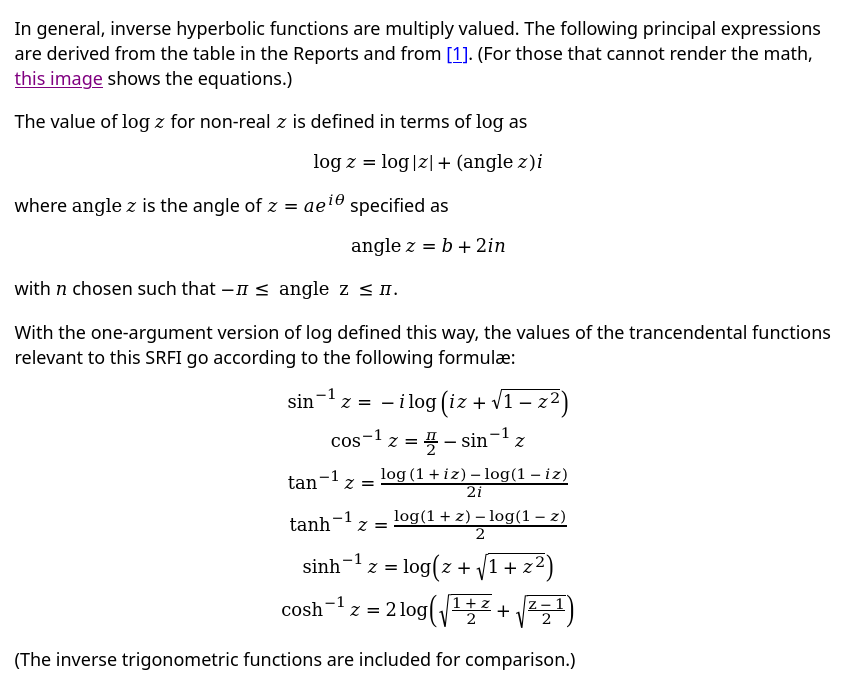
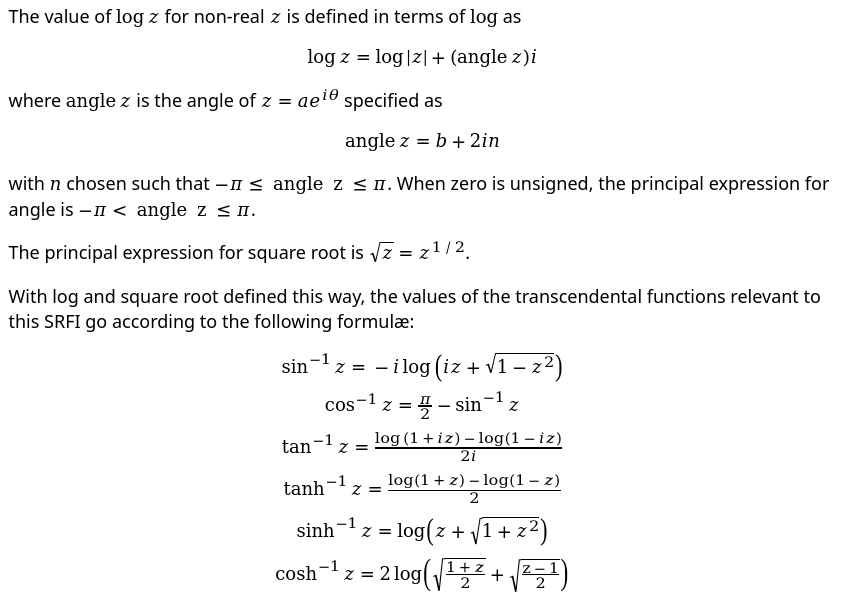
add rationalize, fix tests, update abstract

Changed region(s): [[0.0, 0.0, 0.9742, 0.4515], [0.0, 0.4816, 0.9742, 0.9933]]

diff --git a/srfi-278.html b/srfi-278.html
@@ -128,11 +128,13 @@ SPDX-License-Identifier: MIT
 <h2 id="abstract">Abstract</h2>
 
 <p>
-  This SRFI defines miscellaneous procedures on numbers that were either
-  missing from the <span class="report-name">R<sup>7</sup>RS</span> or are
-  common extensions. These extensions include complex (inverse) hyperbolic
-  functions and the <span class="report-name">R<sup>6</sup>RS</span>
-  numeric tower predicates.
+  This SRFI defines procedures on Scheme numbers that aim to improve the
+  portability and usefulness of Scheme arithmetic. These procedures include
+  predicates with extended domains, hyperbolic and inverse hyperbolic
+  functions, the <span class="report-name">R<sup>6</sup>RS</span> numeric
+  tower, and additional procedures for rounding. Also included are
+  recommendations and justifications for mixed inexact/exact arithmetic
+  to make complex number arithmetic more predictable.
 </p>
 
 <h2 id="issues">Issues</h2>
@@ -145,9 +147,9 @@ SPDX-License-Identifier: MIT
   <li>I am unsure whether the requirements on the inverse hyperbolic functions
       are sufficient to capture the behavior shown in the examples.
   </li>
-  <li>Incoroporate Gambit’s test suite. </li>
-  <li>The sample implementation should incorporate improvements to Kahan’s
-      algorithm like that seen in the Gambit implementation.
+  <li>Incoroporate Gambit’s test suite.</li>
+  <li>More tests for the <a href="#rationalize"><code>rationalize</code></a>
+      procedure.
   </li>
   <li>The sample implementation should respect the counter-clockwise rule
       when dealing with mixed-exactness complex numbers.
@@ -173,7 +175,11 @@ SPDX-License-Identifier: MIT
   The extended-domain procedures are more useful because they can be
   used without invoking “it is an error” behavior. For example, in this
   SRFI, <code>(exact-integer? '())</code> and <code>(nan? '())</code>
-  both return <code>#f</code>.</p>
+  both return <code>#f</code>. In addition, the <code>rationalize</code>
+  procedure has been extended to different types of intervals to make it
+  more useful in simplifying rational numbers while also preserving
+  properties such as rounding.
+</p>
 
 <p>
   The common extensions are the <a
@@ -292,6 +298,7 @@ SPDX-License-Identifier: MIT
   <a href="#rationalp"><code>rational?</code></a>
   <a href="#integerp"><code>integer?</code></a>
   <a href="#exact-integerp"><code>exact-integer?</code></a>
+  <a href="#rationalize"><code>rationalize</code></a>
   <a href="#nanp"><code>nan?</code></a>
   <a href="#sinh"><code>sinh</code></a>
   <a href="#cosh"><code>cosh</code></a>
@@ -377,11 +384,11 @@ SPDX-License-Identifier: MIT
 </p>
 
 <pre
-><code class="example-code">(strictly-real? 1.0)</code> ⇒ #t
-<code class="example-code">(strictly-real? 1)</code> ⇒ #t
-<code class="example-code">(strictly-real? 1+0i)</code> ⇒ #t
-<code class="example-code">(strictly-real? 1.0+0.0i)</code> ⇒ #f
-<code class="example-code">(strictly-real? 1.0-0.0i)</code> ⇒ #f</pre>
+><code class="example-code">(real? 1.0)</code> ⇒ #t
+<code class="example-code">(real? 1)</code> ⇒ #t
+<code class="example-code">(real? 1+0i)</code> ⇒ #t
+<code class="example-code">(real? 1.0+0.0i)</code> ⇒ #f
+<code class="example-code">(real? 1.0-0.0i)</code> ⇒ #f</pre>
 
 <div class="feature">
 <span class="category">(srfi 278)<br>procedure</span>
@@ -430,6 +437,76 @@ SPDX-License-Identifier: MIT
   The ones defined in this SRFI are backwards-compatible with the
   versions described in the
   <span class="report-name">R<sup>7</sup>RS</span>.
+</p>
+</div>
+
+<div class="feature">
+<span class="category">(srfi 278)<br>procedure</span>
+<code class="signature">(<a href="#rationalize" id="rationalize"
+                        >rationalize</a> <var>x</var>
+                                         <var>y</var>)</code><br>
+<code class="signature">(<a href="#rationalize" id="rationalize"
+                        >rationalize</a> <var>x</var>
+                                         <var>delta-lower</var>
+                                         <var>delta-upper</var>
+                                         [<var>lower-inclusive?</var>
+                                          <var>upper-inclusive?</var>])</code><br>
+</div>
+
+<p>It is an error if <var>delta-lower</var> and
+   <var>delta-upper</var> are not both reals.
+   It is an error if <var>x</var> is not finite.
+   It is an error if the interval described by the arguments is empty;
+   this can only happen when
+   <var>delta-lower</var> and <var>delta-upper</var> are both zero,
+   and both bounds are not inclusive.
+</p>
+
+<p>
+  This procedure is like <code>rationalize</code> in the
+  <span class="report-name">R<sup>7</sup>RS</span>. When
+  <var>delta-lower</var> and <var>delta-upper</var> is specified,
+  then the simplest rational between <var>x</var>&minus;|<var>delta-lower</var>|
+  and <var>x</var>+|<var>delta-higher</var>| is returned.
+</p>
+
+<p>
+  When <var>lower-inclusive?</var> is true, the lower bound of the range
+  is inclusive; otherwise, it is exclusive.
+  When <var>upper-inclusive?</var> is true, the upper bound of the range
+  is inclusive; otherwise, it is exclusive. For example,
+  <code>(rationalize <var>x</var> -1 +1 #f #t)</code> covers the range
+  (<var>x</var>-1,<var>x</var>+1].
+</p>
+<div class="boxed">
+<p>
+  <span class="boxed-tag">Rationale</span>: This version of
+  <code>rationalize</code> allows for finer control over the bounds,
+  which is particularly important when converting floating-point
+  numbers into rationals. For example, one can rationalize a floating
+  point number <var>f</var>
+  (that is not a power of two) by considering the numbers
+  around it that would round to it. Let <var>ε</var> be the quantum of
+  <var>f</var>. In the default round-to-even mode,
+  the interval of rationals that round to <var>f</var> is (<var>f</var>-<var>ε</var>/2,<var>f</var>+<var>ε</var>/2)
+  when the mantissa is odd, and
+  [<var>f</var>-<var>ε</var>/2,<var>f</var>+<var>ε</var>/2] when the
+  mantissa is even. When <var>f</var> is a normal power of two, then the
+  range is [<var>f</var>-<var>ε</var>/4,<var>f</var>+<var>ε</var>/2],
+  because the left interval is in a different binade.
+  When <var>f</var> is a normalized non-power of two in round towards
+  zero mode, then the interval is [<var>f</var>,<var>f</var>+<var>ε</var>).
+</p>
+
+<p>A procedure called
+   <a href="https://practical-scheme.net/gauche/man/gauche-refe/Numbers.html#index-real_002d_003erational"><code>real-&gt;rational</code></a>
+   appears in Gauche, with similar behavior to this procedure.
+</p>
+
+<p>
+  Implementations are encouraged to implement this behavior as an
+  extension to the procedure in <code>(scheme base)</code> because it
+  is backwards compatible.
 </p>
 </div>
 
@@ -492,7 +569,10 @@ The value of <math xmlns="http://www.w3.org/1998/Math/MathML" display="inline"><
 <math xmlns="http://www.w3.org/1998/Math/MathML" display="block"><mrow><mi>log</mi><mo></mo><mi>z</mi><mo>=</mo><mi>log</mi><mo></mo><mrow><mo>|</mo><mi>z</mi><mo>|</mo></mrow><mo>+</mo><mrow><mo>(</mo><mi>angle</mi><mo></mo><mi>z</mi><mo>)</mo></mrow><mo></mo><mi>i</mi></mrow></math><p>
 where <math xmlns="http://www.w3.org/1998/Math/MathML" display="inline"><mrow><mi>angle</mi><mo></mo><mi>z</mi></mrow></math> is the angle of <math xmlns="http://www.w3.org/1998/Math/MathML" display="inline"><mrow><mi>z</mi><mo>=</mo><mi>a</mi><mo></mo><msup><mi>e</mi><mrow><mi>i</mi><mo></mo><mi>θ</mi></mrow></msup></mrow></math> specified as </p>
 <math xmlns="http://www.w3.org/1998/Math/MathML" display="block"><mrow><mi>angle</mi><mo></mo><mi>z</mi><mo>=</mo><mi>b</mi><mo>+</mo><mn>2</mn><mo></mo><mi>i</mi><mo></mo><mi>n</mi></mrow></math><p>
-with <math xmlns="http://www.w3.org/1998/Math/MathML" display="inline"><mi>n</mi></math> chosen such that <math xmlns="http://www.w3.org/1998/Math/MathML" display="inline"><mrow><mo>−</mo><mo></mo><mi>π</mi><mo>≤</mo><mo>angle</mo><mo></mo><mo>z</mo><mo>≤</mo><mi>π</mi></mrow></math>.</p>
+with <math xmlns="http://www.w3.org/1998/Math/MathML" display="inline"><mi>n</mi></math> chosen such that <math xmlns="http://www.w3.org/1998/Math/MathML" display="inline"><mrow><mo>−</mo><mo></mo><mi>π</mi><mo>≤</mo><mo>angle</mo><mo></mo><mo>z</mo><mo>≤</mo><mi>π</mi></mrow></math>.
+When zero is unsigned, the principal expression for angle is
+<math xmlns="http://www.w3.org/1998/Math/MathML" display="inline"><mrow><mo>−</mo><mo></mo><mi>π</mi><mo>&lt;</mo><mo>angle</mo><mo></mo><mo>z</mo><mo>≤</mo><mi>π</mi></mrow></math>.
+</p>
 
 <p>The principal expression for square root is <math xmlns="http://www.w3.org/1998/Math/MathML" display="inline"><msqrt><mi>z</mi></msqrt><mo>=</mo><msup><mi>z</mi><mrow><mn>1</mn><mo>/</mo><mn>2</mn></mrow></msup></math>.</p>
 
@@ -596,7 +676,8 @@ go according to the following formulæ:</p>
 <h2 id="implementation">Implementation</h2>
 
 <p>
-  A sample implementation is available in
+  A sample <span class="report-name">R<sup>7</sup>RS</span>
+  implementation is available in
   the <a href="https://github.com/scheme-requests-for-implementation/srfi-278">SRFI
   repository</a>. It depends on complex numbers, inexact numbers, <a
   href="https://srfi.schemers.org/srfi-144/">SRFI 144</a>, inexact
